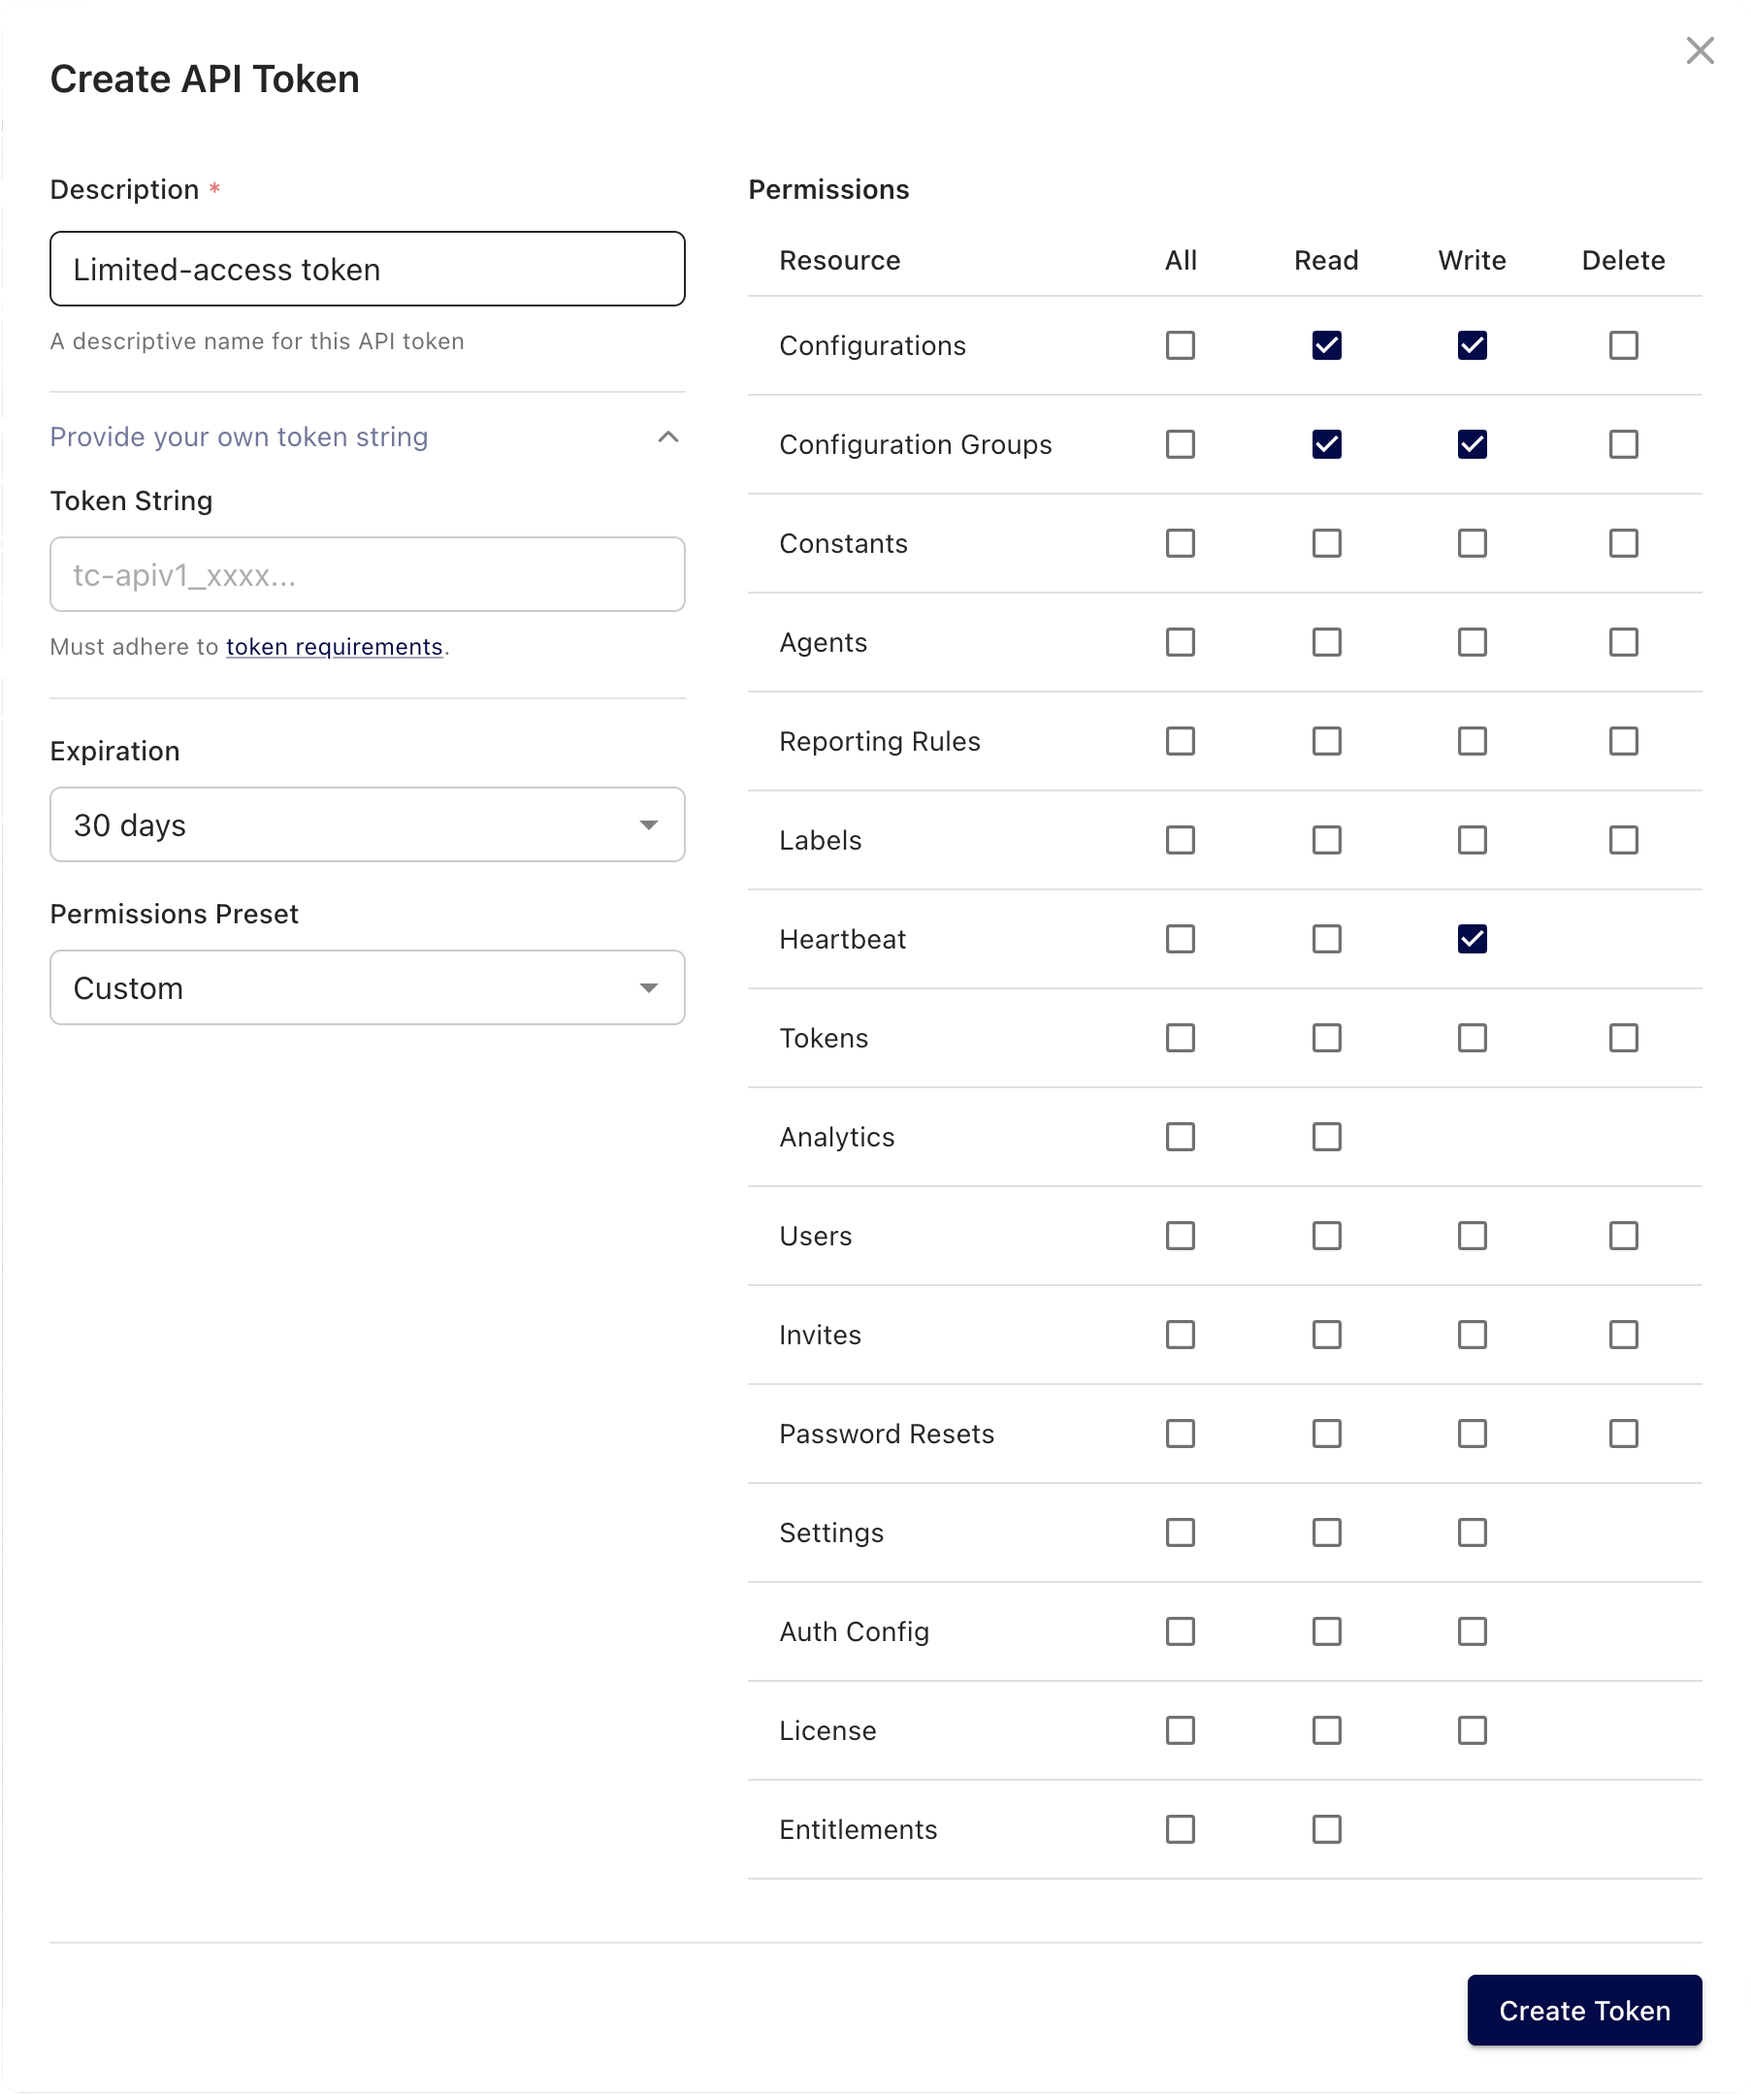
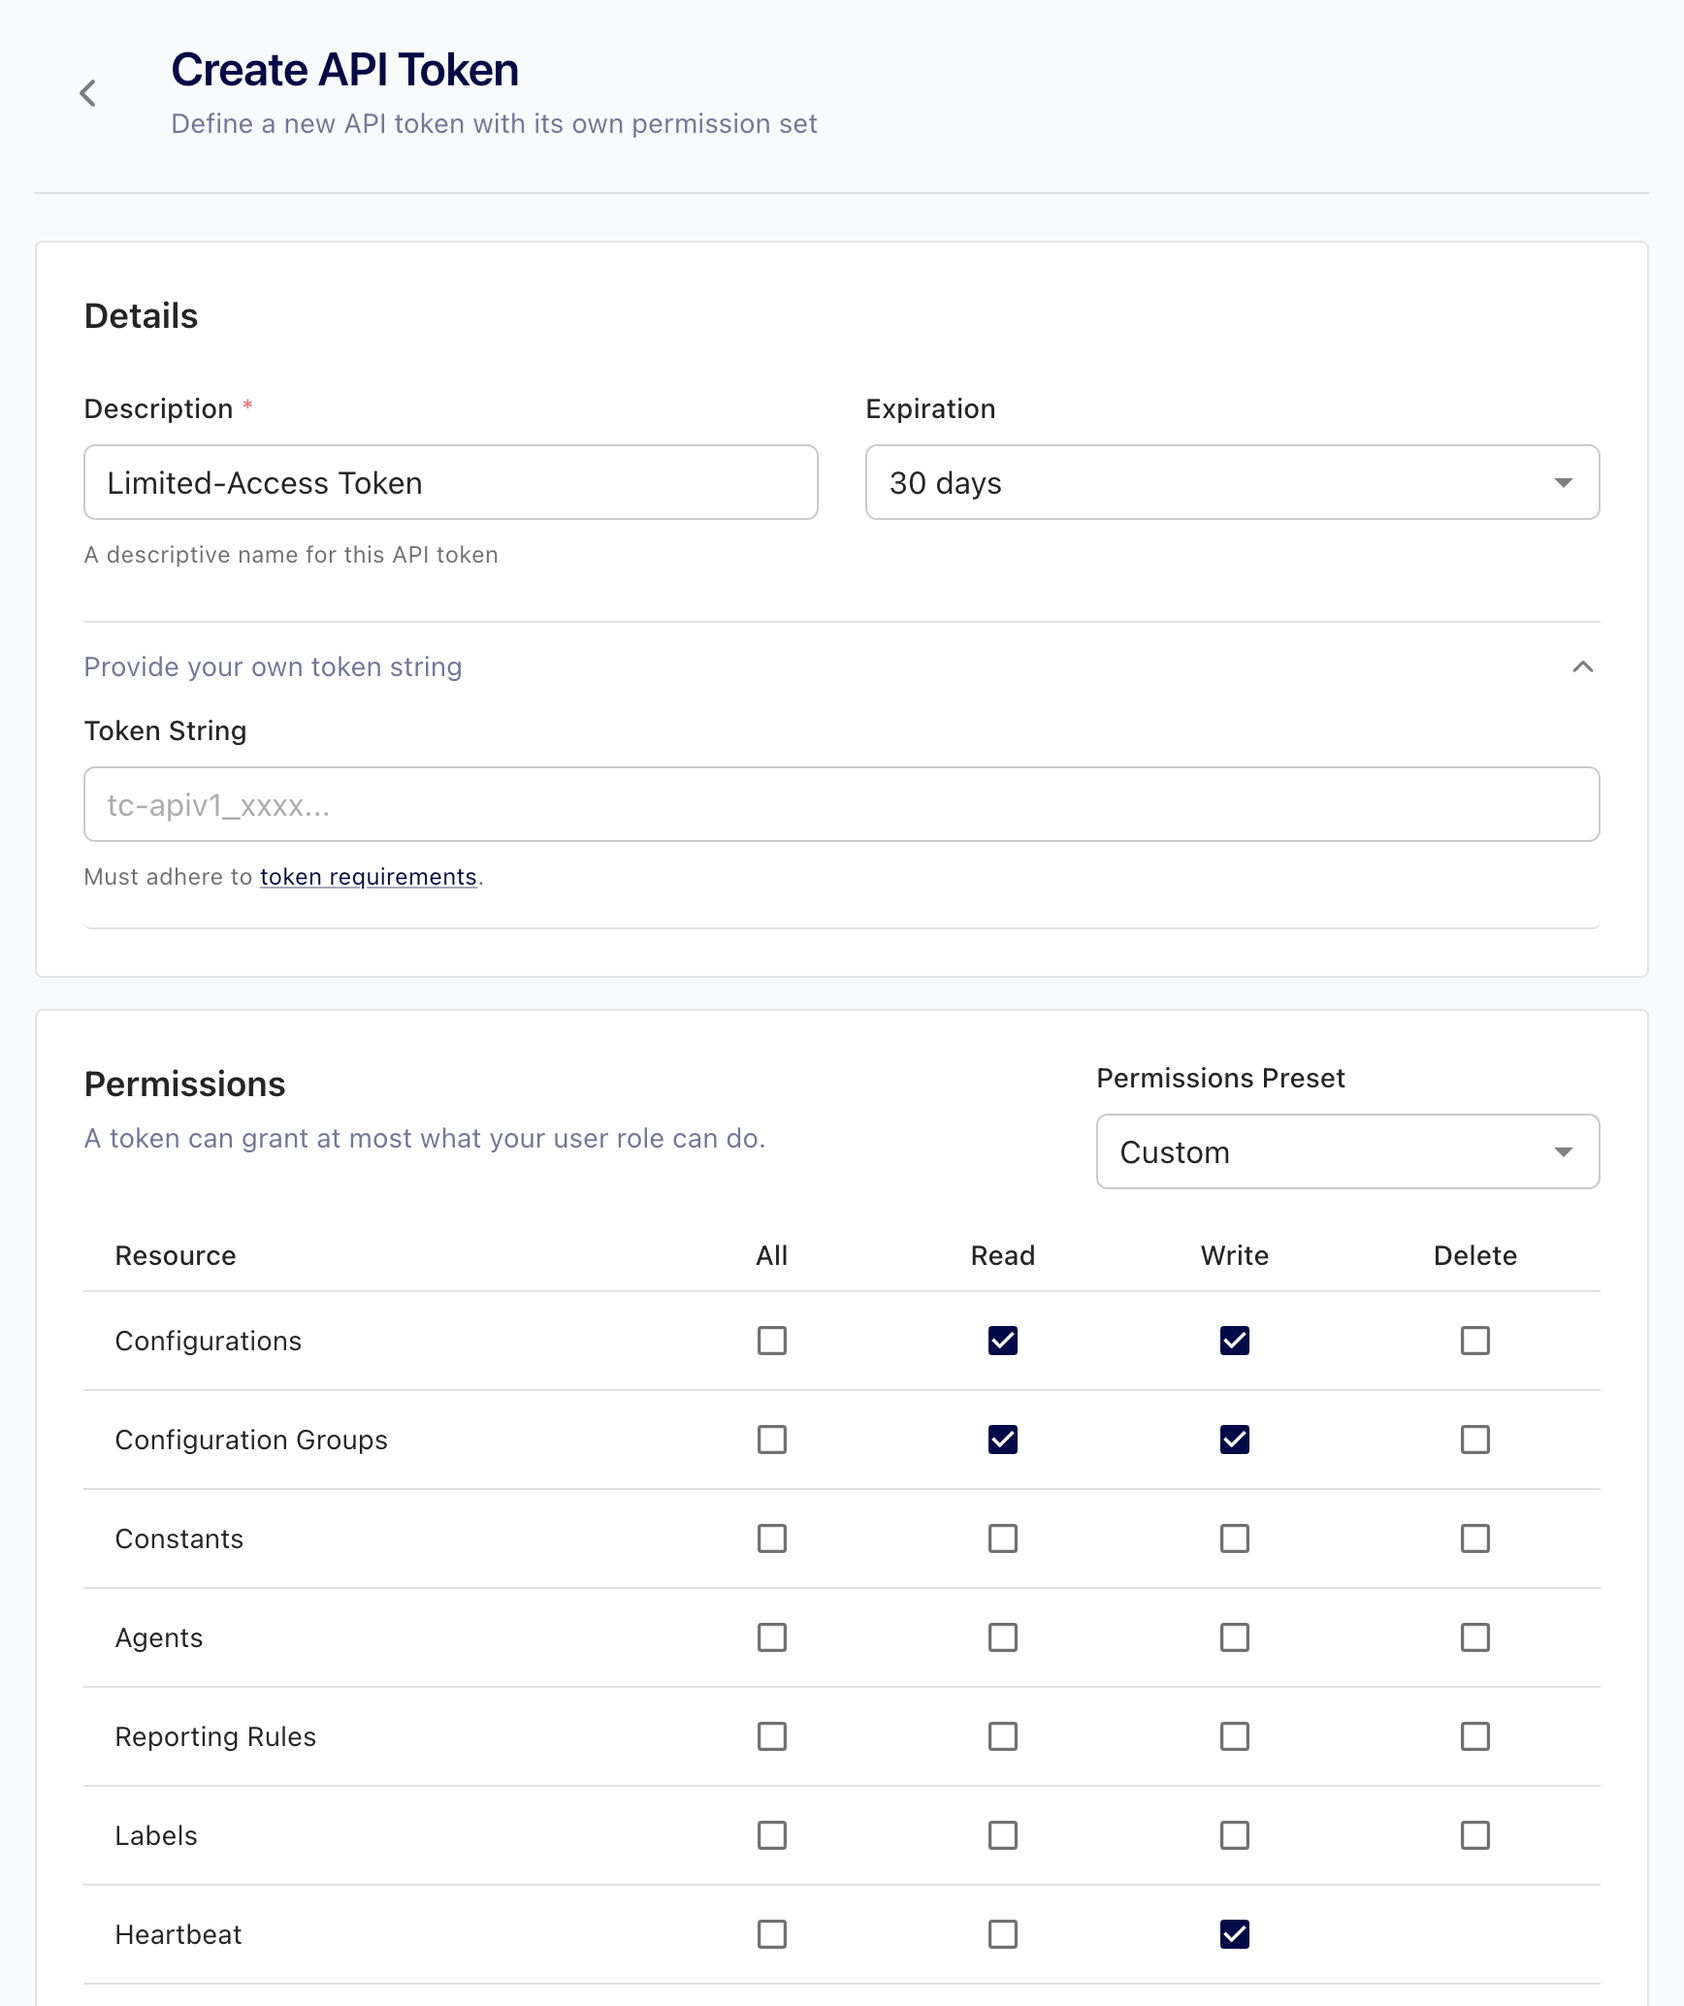
docs(controller): update token create images

diff --git a/content/telegraf/controller/tokens/create.md b/content/telegraf/controller/tokens/create.md
@@ -45,7 +45,7 @@ Tokens let you grant scoped access to external tools, scripts, and services with
     See [Custom permissions](#custom-permissions).
 7.  Click **Create Token**.
 
-<!-- TODO: screenshot of the Create API Token page showing the Details and Permissions cards (the previous image at this path shows the former dialog). Save to /static/img/telegraf/controller-create-token.png and replace this comment with: {{< img-hd src="/img/telegraf/controller-create-token.png" alt="Telegraf Controller Create API Token page" />}} -->
+{{< img-hd src="/img/telegraf/controller-create-token.png" alt="Telegraf Controller Create API Token page" />}}
 
 After the token is created, the page shows the token value once:
 

diff --git a/content/telegraf/controller/agents/monitor.md b/content/telegraf/controller/agents/monitor.md
@@ -133,8 +133,6 @@ A toggle is highlighted while it's on.
 Turn both toggles off to return to the default plain-text search that ignores
 case.
 
-<!-- TODO: screenshot of the Agents page search box with "Use regular expression" turned on and a pattern entered. Save to /static/img/telegraf/controller-agents-search-modes.png and replace this comment with: {{< img-hd src="/img/telegraf/controller-agents-search-modes.png" alt="Telegraf Controller agent search with the regular expression toggle enabled" />}} -->
-
 > [!Note]
 > #### Regular expression syntax depends on the database
 >

diff --git a/content/telegraf/controller/tokens/preshared.md b/content/telegraf/controller/tokens/preshared.md
@@ -62,7 +62,6 @@ The value must meet the [token requirements](#token-requirements).
     [Create an API token](/telegraf/controller/tokens/create/).
 6.  Click **Create Token**.
 
-<!-- TODO: recapture this screenshot on the Create API Token page (the current image shows the former dialog). Save to /static/img/telegraf/controller-tokens-preshared-field.png; the shortcode below can stay as is. -->
 {{< img-hd src="/img/telegraf/controller-tokens-preshared-field.png" alt="Telegraf Controller Create API Token page with a user-supplied token value" />}}
 
 ### Use the API
